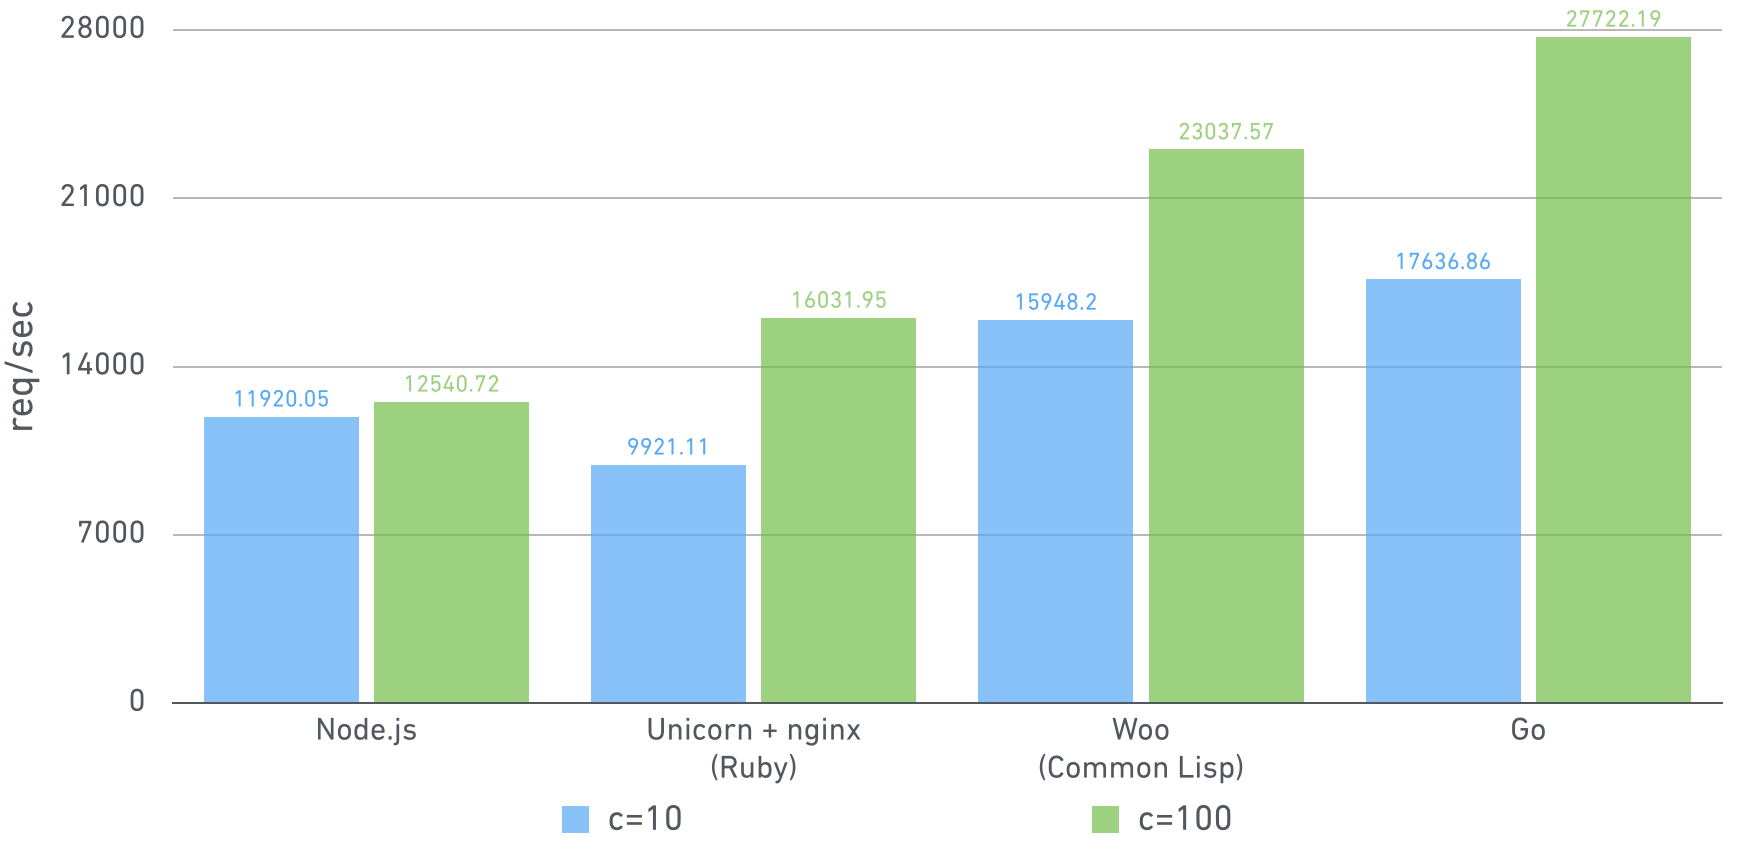
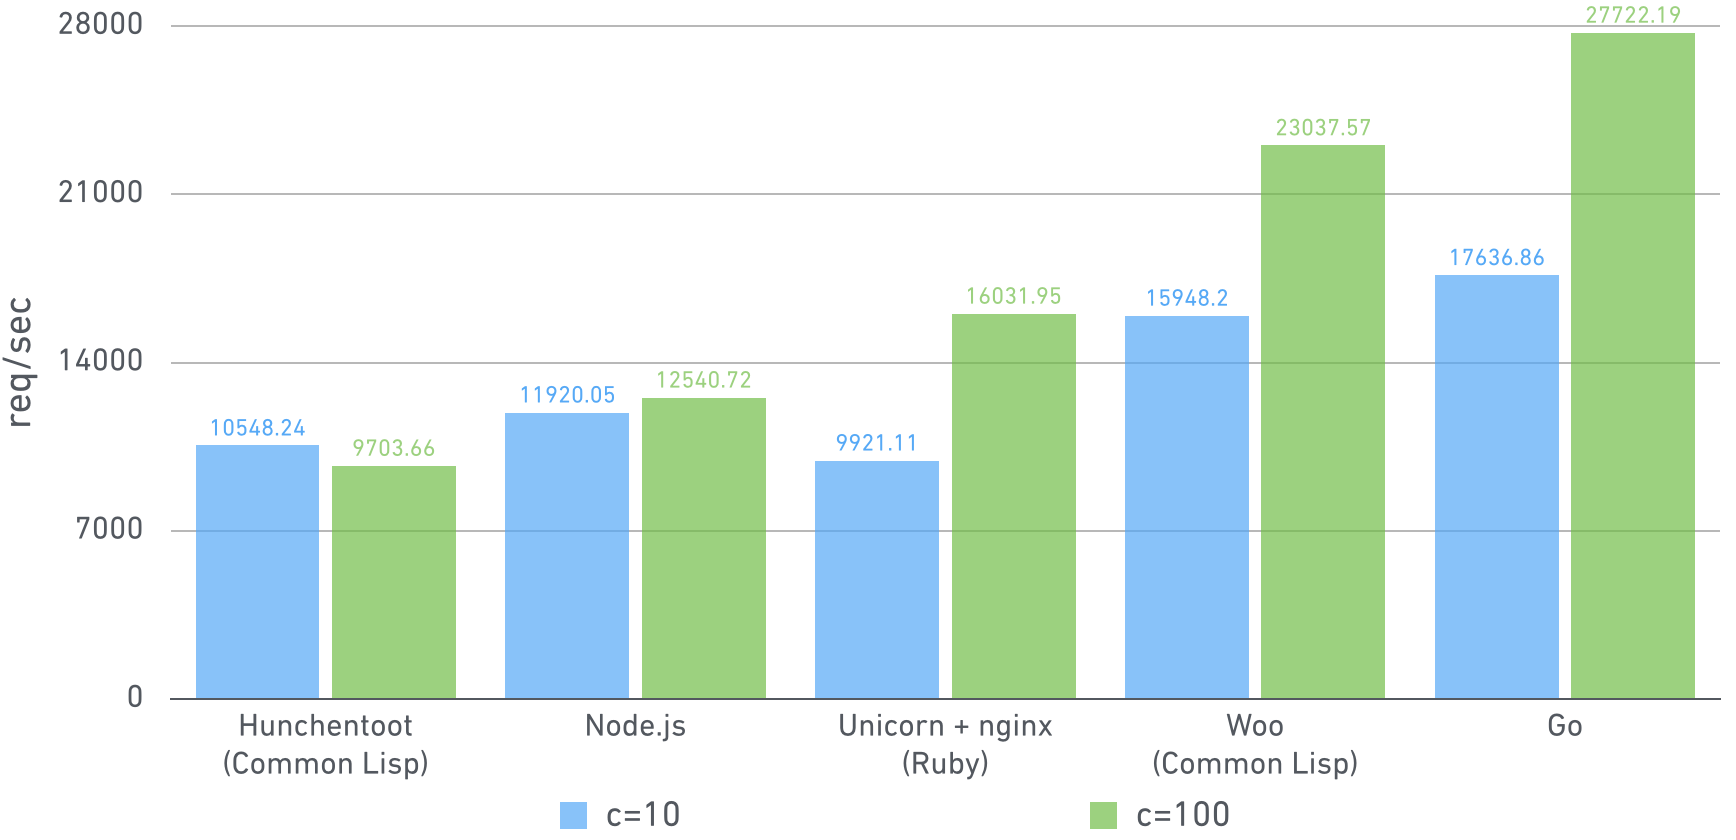
Add benchmark result of multi-threaded Hunchentoot. (fixes #15)

diff --git a/README.md b/README.md
@@ -287,6 +287,34 @@ Requests/sec:  14069.35
 Transfer/sec:      1.73MB
 ```
 
+### Hunchentoot (multi-threaded-taskmaster)
+
+```
+$ benchmark/run-benchmark benchmark/hunchentoot/run true
+```
+
+```
+Running 10s test @ http://127.0.0.1:5000
+  4 threads and 10 connections
+  Thread Stats   Avg      Stdev     Max   +/- Stdev
+    Latency     1.41ms    3.68ms  42.62ms   95.47%
+    Req/Sec     2.65k   306.72     2.93k    77.75%
+  105501 requests in 10.00s, 15.80MB read
+Requests/sec:  10548.24
+Transfer/sec:      1.58MB
+```
+
+```
+Running 10s test @ http://127.0.0.1:5000
+  4 threads and 100 connections
+  Thread Stats   Avg      Stdev     Max   +/- Stdev
+    Latency    18.65ms   57.01ms 991.35ms   94.55%
+    Req/Sec     2.57k     0.95k    6.34k    74.39%
+  97717 requests in 10.07s, 14.63MB read
+Requests/sec:   9703.66
+Transfer/sec:      1.45MB
+```
+
 ### Unicorn + nginx (Ruby, worker_processes=4)
 
 nginx's worker\_processes=4
